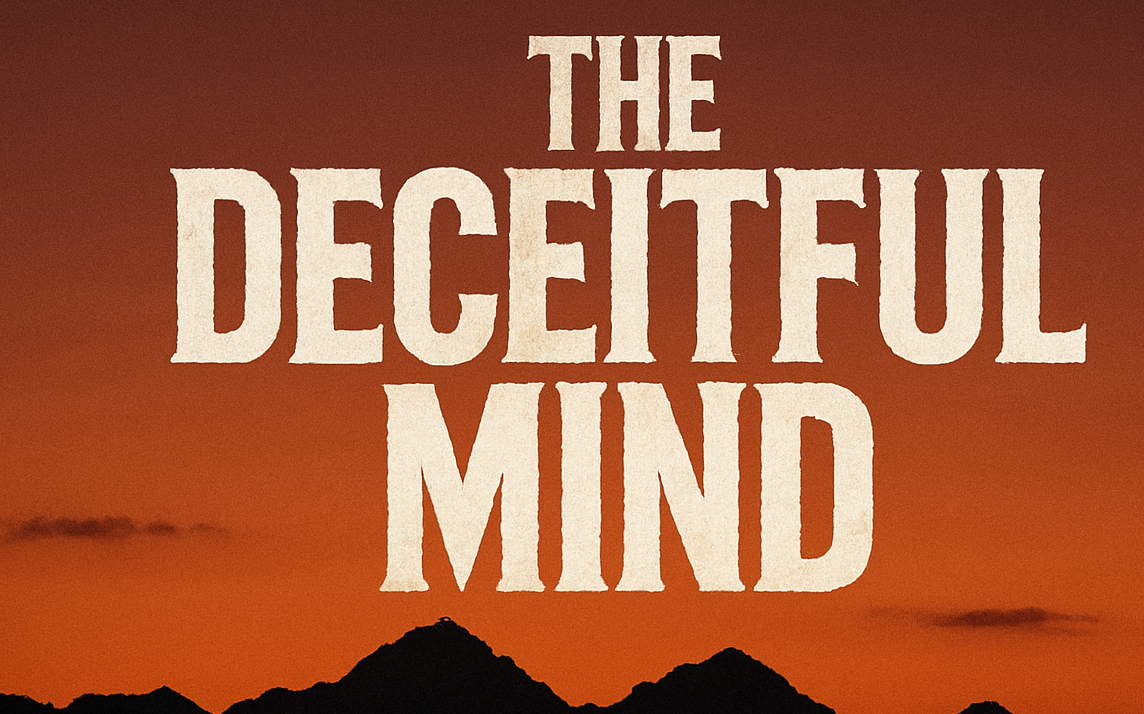
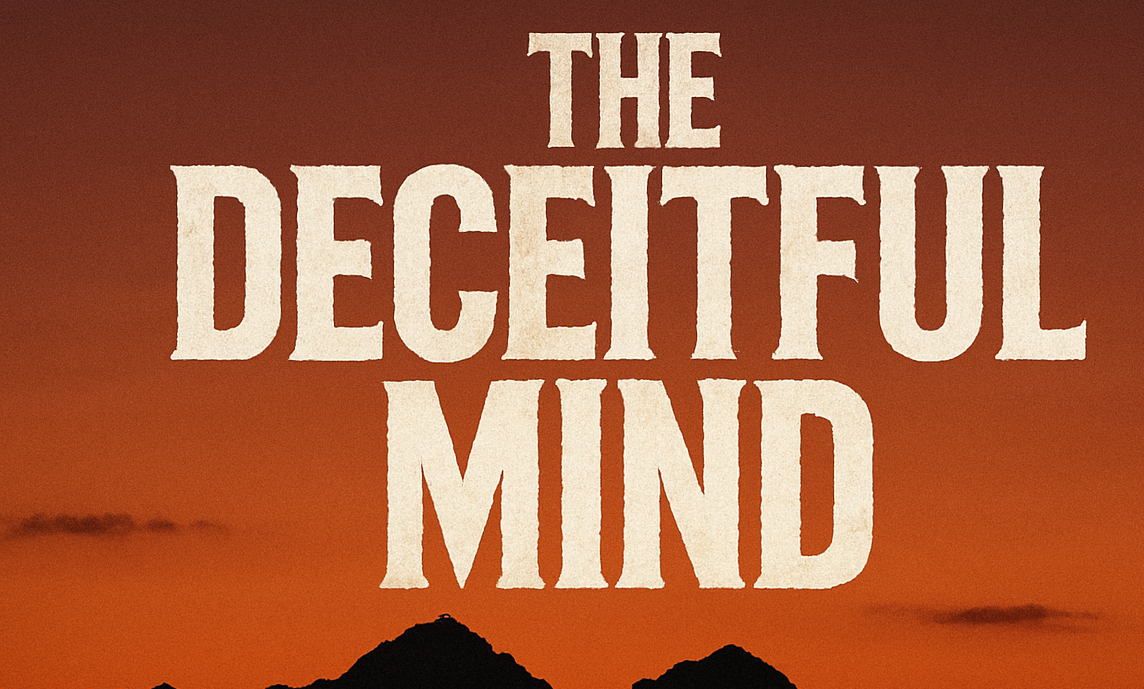
Add lots of css for responsive design

diff --git a/cypress/e2e/socials.cy.js b/cypress/e2e/socials.cy.js
@@ -3,4 +3,14 @@ describe('social banner', () => {
   beforeEach(() => {
     cy.visit('/', { timeout: 10000 });
   })
+
+  it('displays all the social links', () => {
+    cy.get('.banner-socials a').should('have.length',6)
+    .get('a').eq(0).should('have.attr', 'href', 'https://www.instagram.com/thedeceitfulmind/')
+    .get('a').eq(1).should('have.attr', 'href', 'https://www.facebook.com/TheDeceitfulMind/')
+    .get('a').eq(2).should('have.attr', 'href', 'https://www.youtube.com/channel/UCDJiZDVS2wHexkZvj0kirgQ')
+    .get('a').eq(3).should('have.attr', 'href', 'https://open.spotify.com/artist/1NRdg3EZ3RIQkrUS52eaI6')
+    .get('a').eq(4).should('have.attr', 'href', 'https://music.apple.com/us/artist/the-deceitful-mind/1149643171')
+    .get('a').eq(5).should('have.attr', 'href', 'https://www.amazon.com/music/player/artists/B01LEGQGNI/the-deceitful-mind')
+  })
 })

diff --git a/src/Home/Home.css b/src/Home/Home.css
@@ -7,14 +7,19 @@ h2 {
   justify-content: top;
   background-color: #363231;
   border: thin solid black;
-  margin: 1em;
+  margin: .5em;
   border-radius: 5px;
 }
 
 .home-container {
   margin: 1em;
-  padding: 1em;
+  padding: .5em;
   display: grid;
   grid-template-columns: repeat(2, minmax(0, 1fr));
-  /* background-color: #363231; */
+}
+
+@media (max-width: 650px) {
+  .home-container {
+      grid-template-columns: repeat(1, minmax(0, 1fr));
+  }
 }

diff --git a/src/App.css b/src/App.css
@@ -123,6 +123,12 @@ header > ul {
 @media (max-width: 830px) {
   header {
     background-image: url('assets/mobile_banner.png');
-    aspect-ratio: 1.6 / 1;
+    aspect-ratio: 1.66 / 1;
+  }
+  .container {
+      grid-template-columns: repeat(2, minmax(0, 1fr));
+      h2 {
+        font-size: 1.1em;
+      }
   }
 }

diff --git a/src/Songs/Songs.css b/src/Songs/Songs.css
@@ -1,6 +1,6 @@
 .links {
-  display: inline-flex;
-  flex-wrap: wrap;
+  display: flex;
+  /* flex-wrap: wrap; */
   column-gap: 1em;
   justify-content: flex-start;
   padding-left: 0;
@@ -13,4 +13,6 @@ li:hover {
 
 .icon {
   max-height: 35px;
+  /* max-height: 100%; */
+  object-fit: contain;
 }

diff --git a/src/index.css b/src/index.css
@@ -30,7 +30,7 @@ a, code, pre {
 
   color-scheme: light dark;
   color: rgba(255, 255, 255, 0.87);
-  background-color: black;
+  background-color: rgb(25,23,31);
 
   font-synthesis: none;
   text-rendering: optimizeLegibility;
